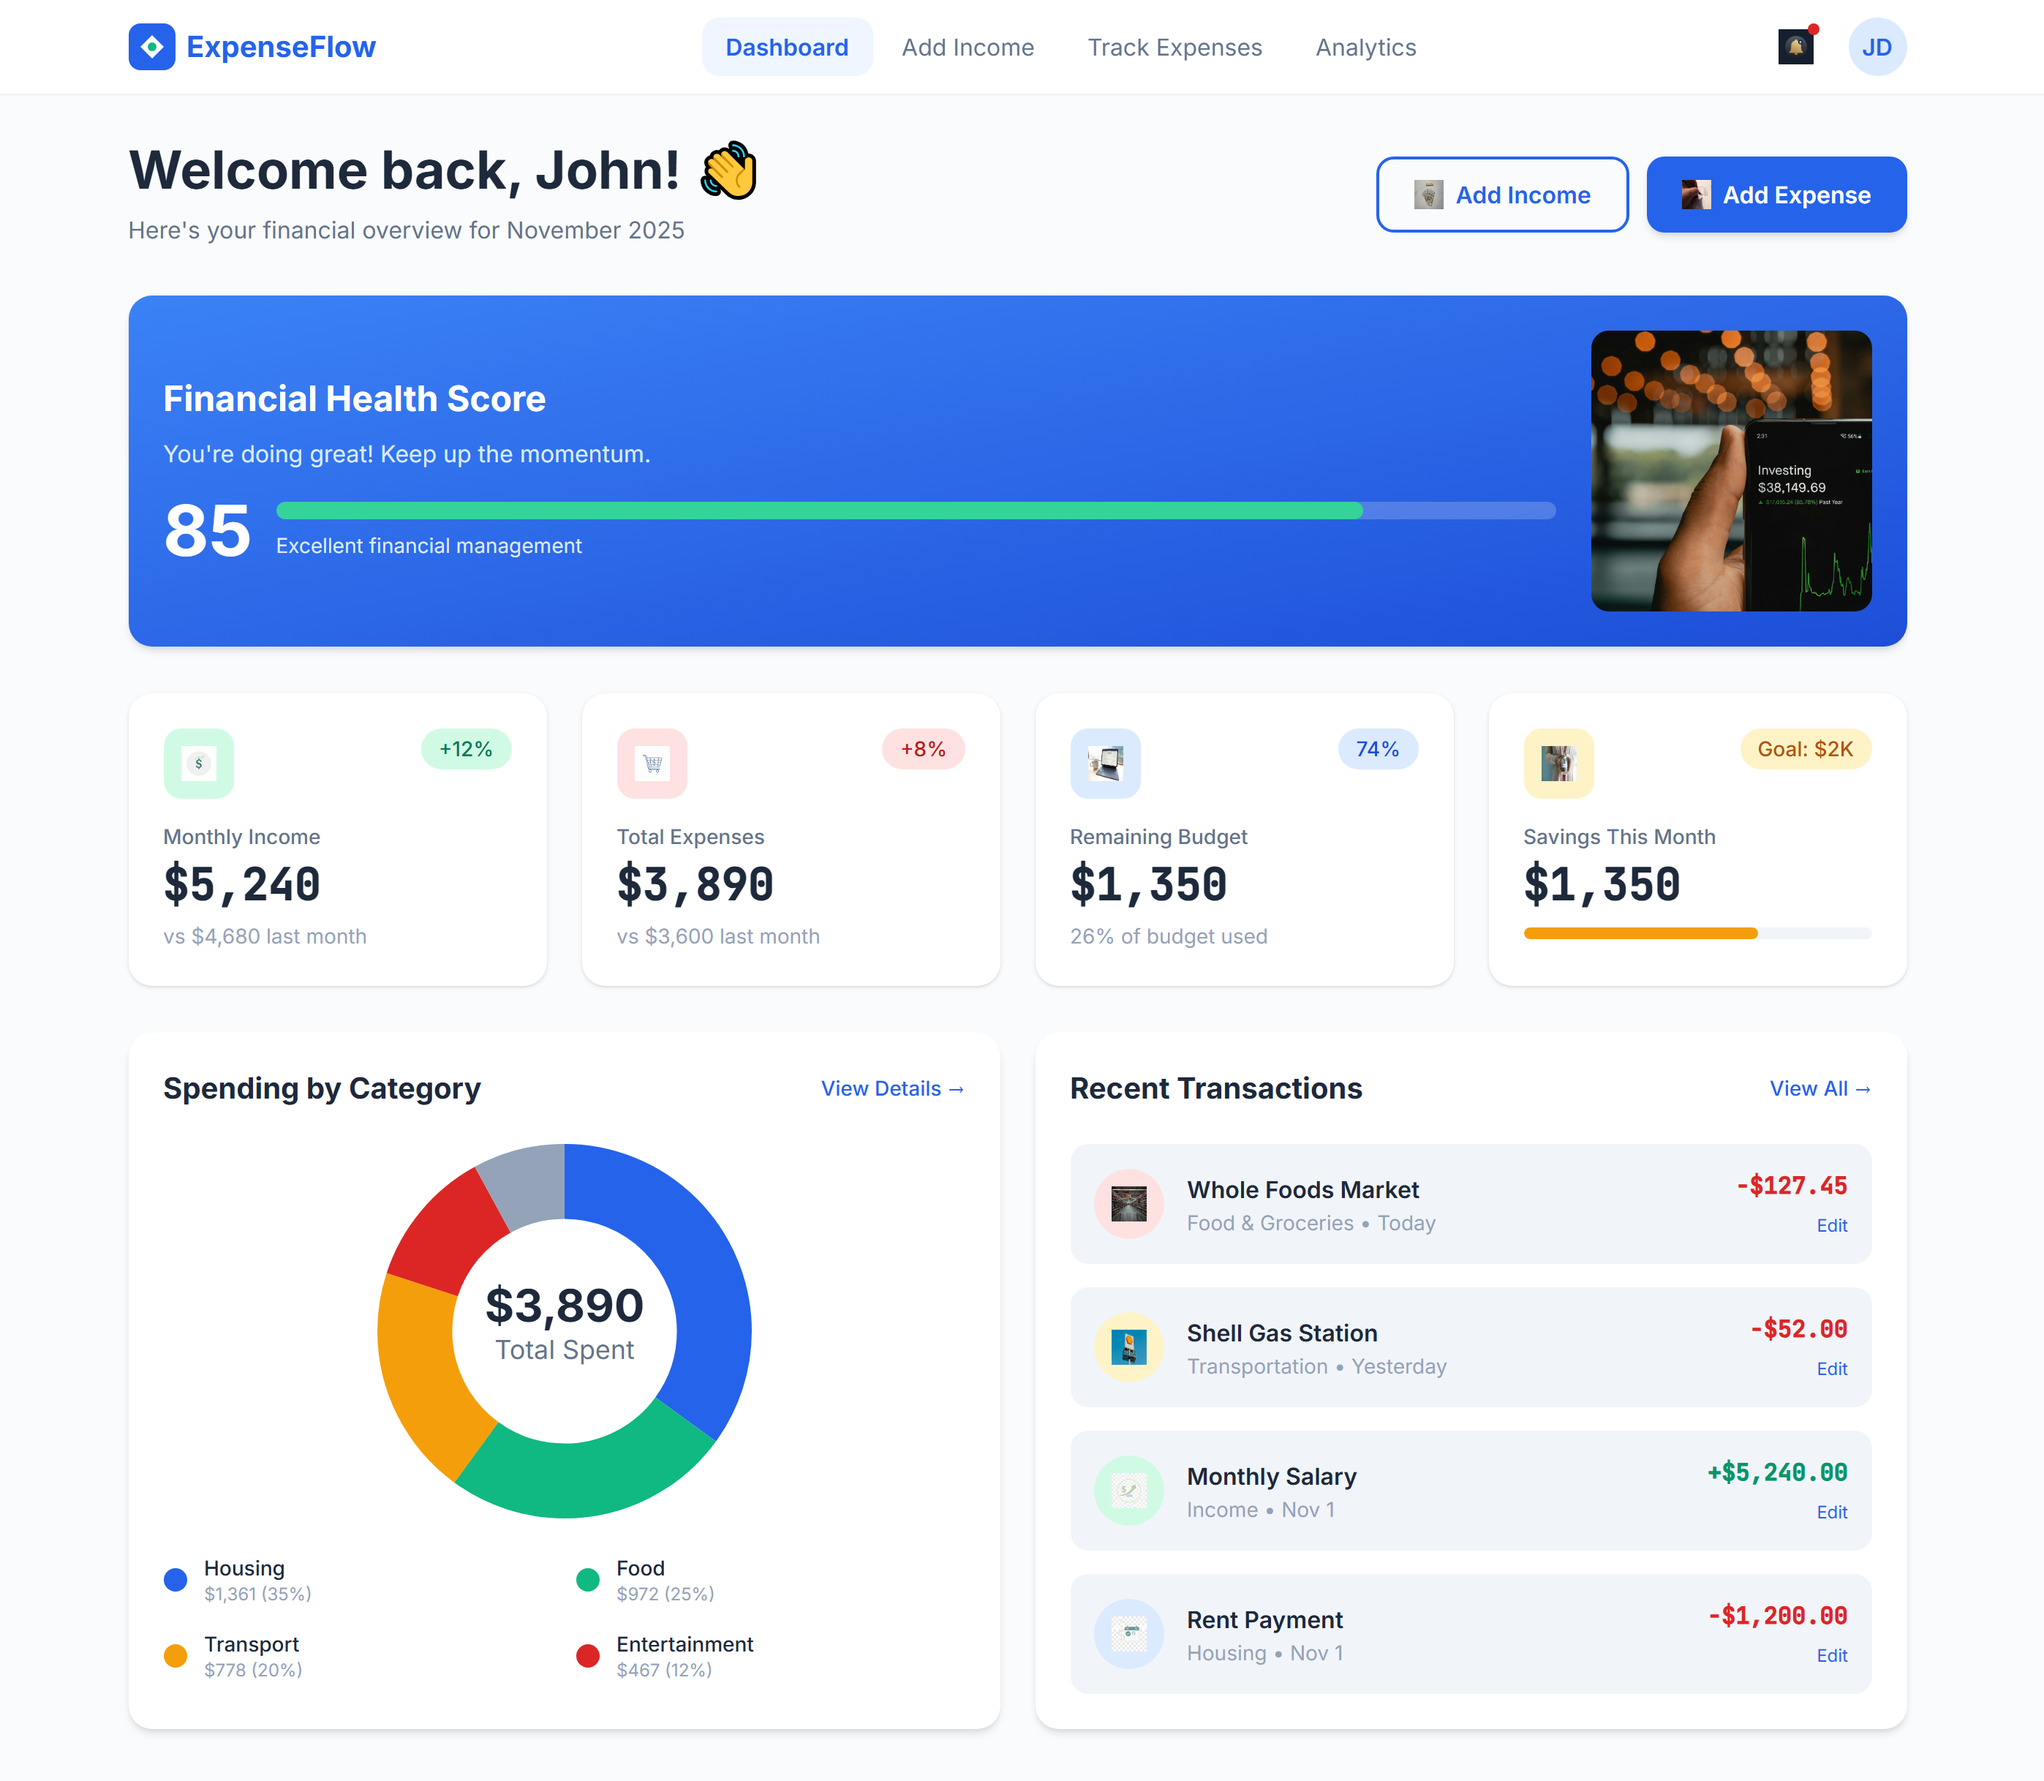
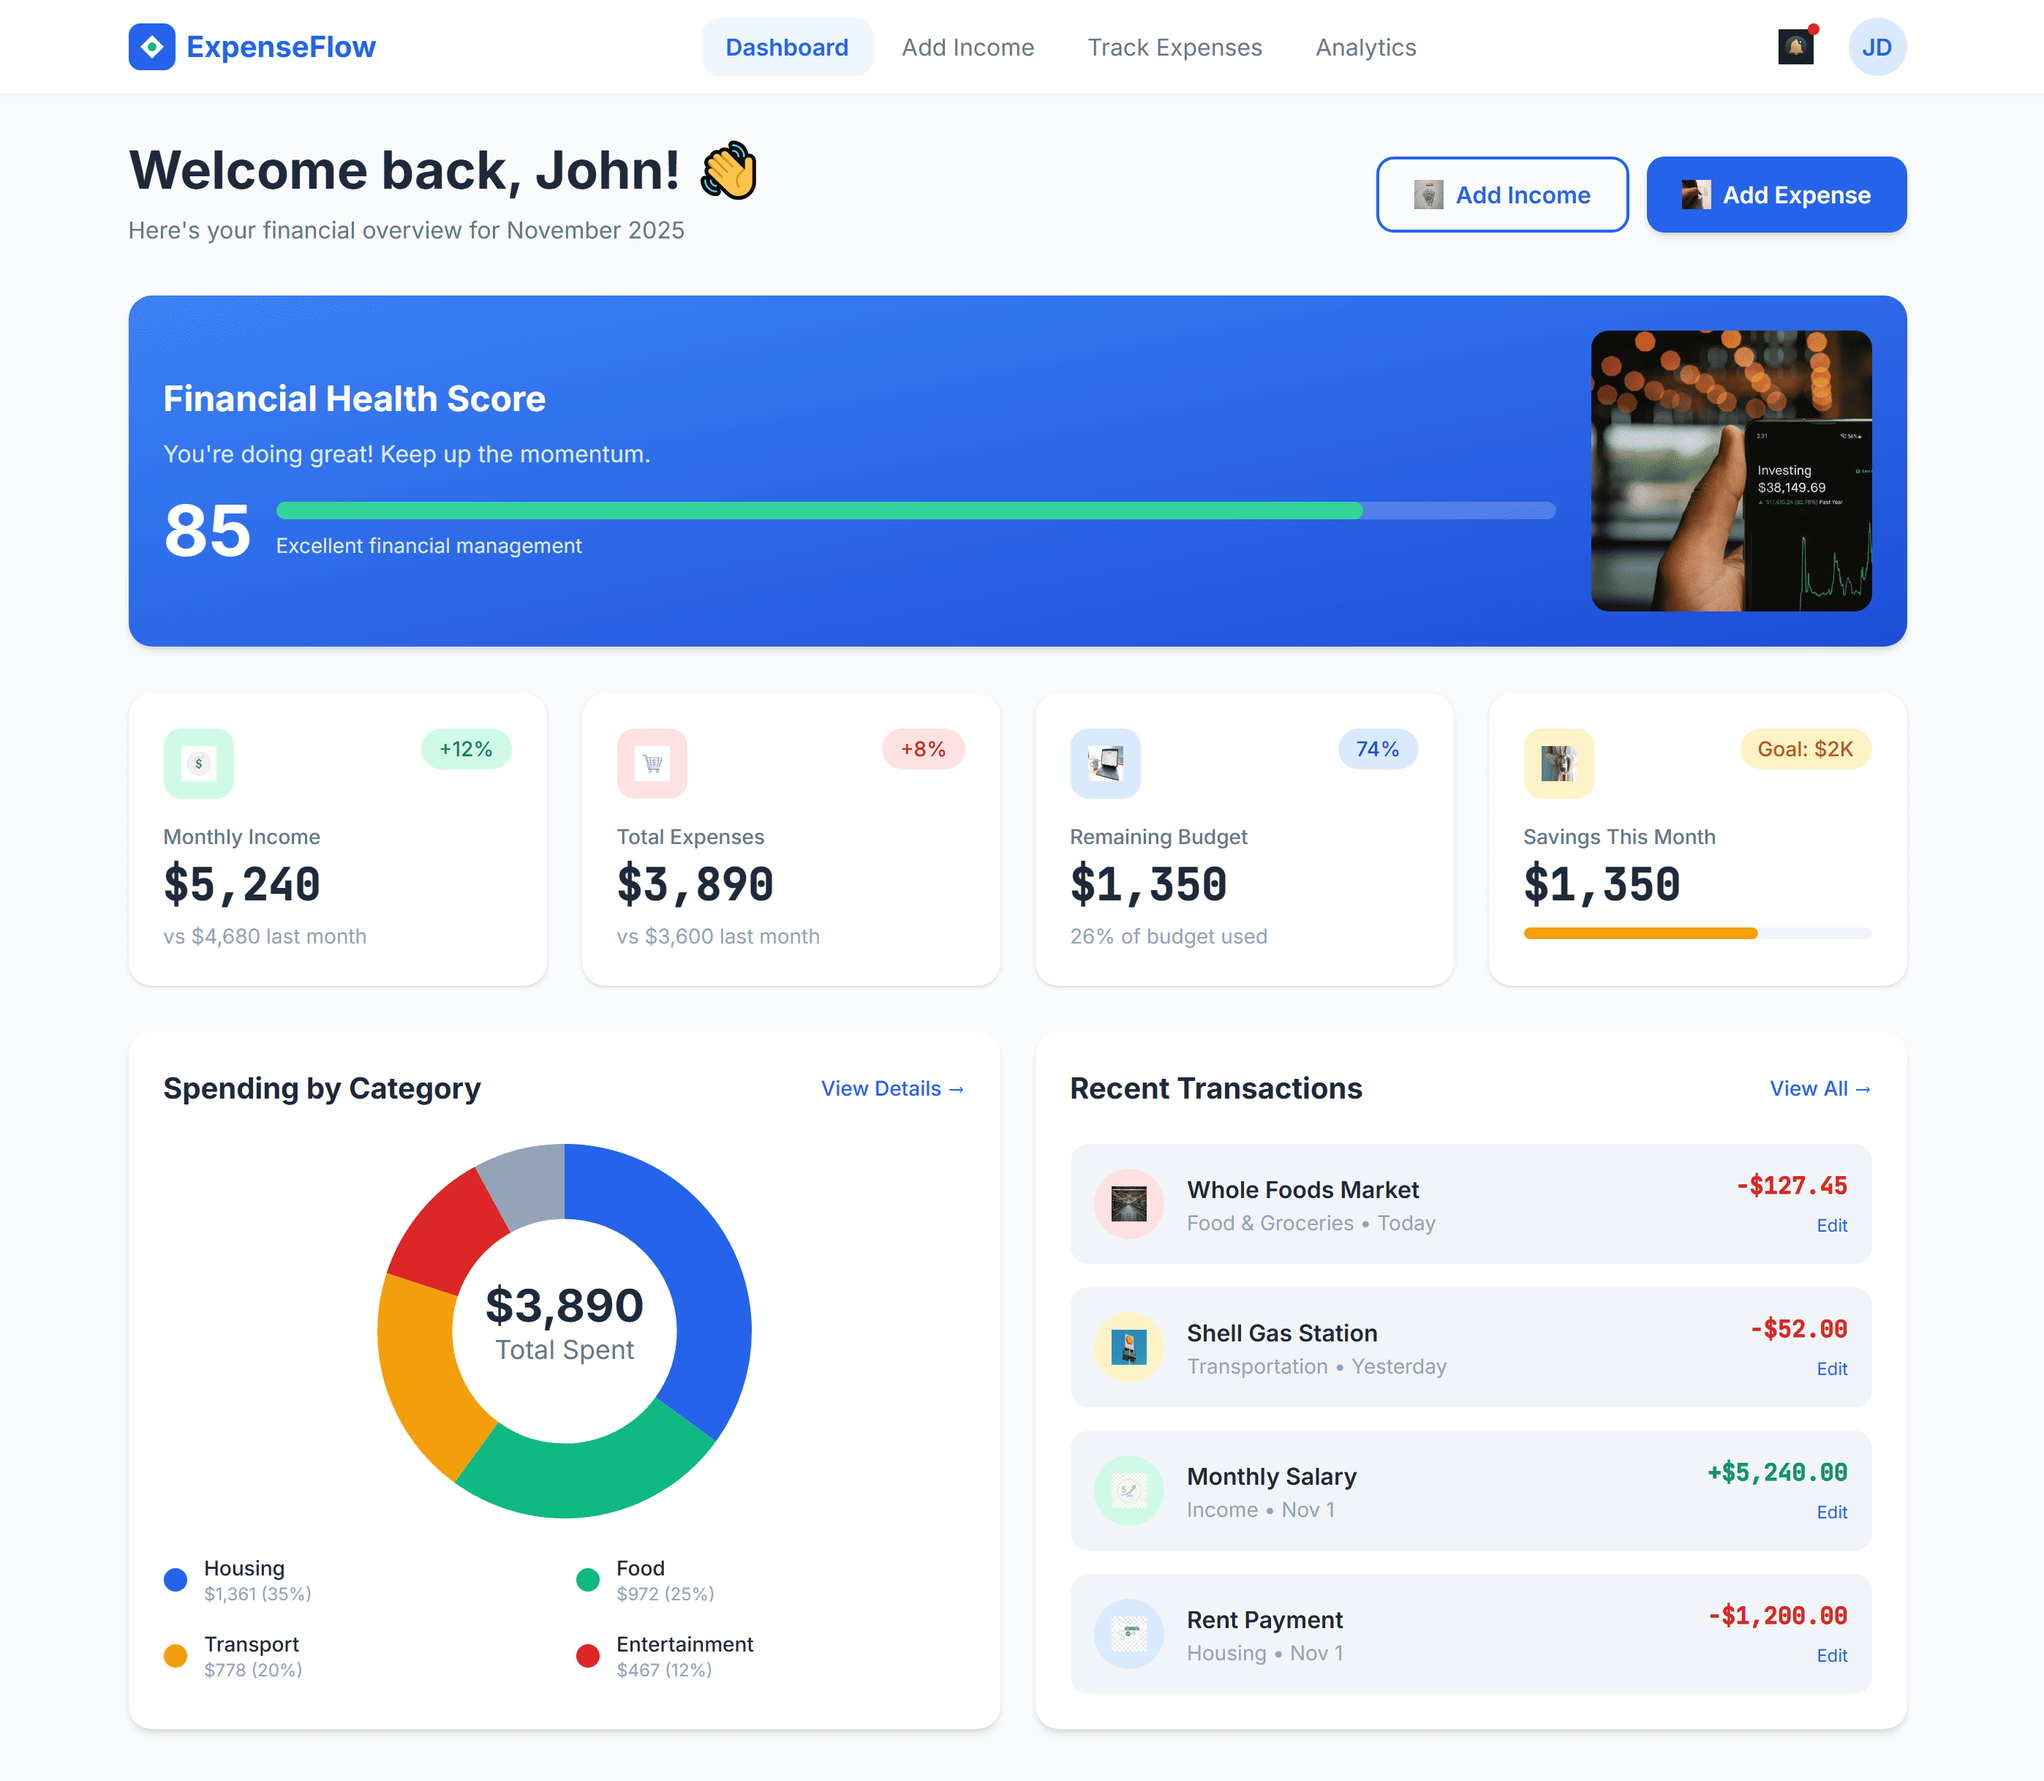
Images Compressed for better optimization

Changed region(s): [[0.7782, 0.1873, 0.9027, 0.3433], [0.5292, 0.7491, 0.5603, 0.7803]]

diff --git a/index.html b/index.html
@@ -181,7 +181,7 @@
             aria-label="View project: Kestrel">
             <div class="project-cover">
               <br>
-              <img src="./images/SAMS SS.png" alt="Smart Airport Management System">
+              <img src="./images/SAMS SS.jpg" alt="Smart Airport Management System">
             </div>
             <div class="project-info">
               <div class="project-head">
@@ -197,7 +197,7 @@
           <button class="project-card" data-project="fathom" data-reveal aria-haspopup="dialog"
             aria-label="View project: Fathom">
             <div class="project-cover">
-              <img src="./images/SIw-Chatbot.png" alt="Sports Info With Chat Bot">
+              <img src="./images/SIw-Chatbot.jpg" alt="Sports Info With Chat Bot">
             </div>
             <div class="project-info">
               <div class="project-head">
@@ -229,7 +229,7 @@
           <button class="project-card" data-project="vantage" data-reveal aria-haspopup="dialog"
             aria-label="View project: Vantage">
             <div class="project-cover">
-              <img src="./images/ST SS.png" alt="Snap Trips">
+              <img src="./images/ST SS.jpg" alt="Snap Trips">
             </div>
             <div class="project-info">
               <div class="project-head">
@@ -261,7 +261,7 @@
       <div class="container about-grid">
         <div class="about-visual" data-reveal>
           <div class="about-photo-placeholder">
-            <img src="./images/SMA-pic.png" alt="Syed Mustafa Ahmad portrait" class="about-photo" loading="lazy" decoding="async" />
+            <img src="./images/SMA-pic.jpg" alt="Syed Mustafa Ahmad portrait" class="about-photo" decoding="async" />
           </div>
         </div>
         <div class="about-copy">
